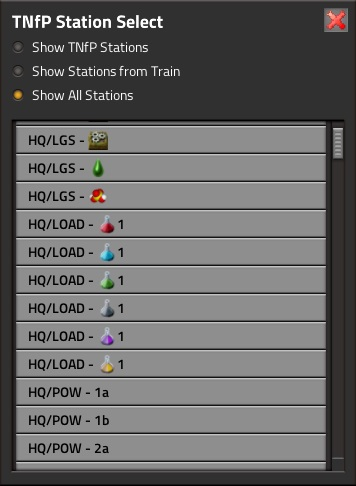
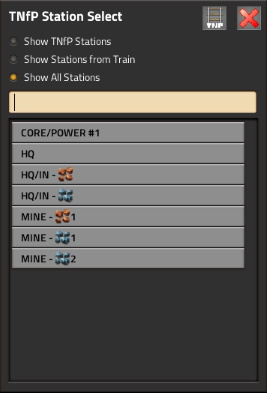
- update readme and documentation images

diff --git a/README.md b/README.md
@@ -2,94 +2,67 @@
 ## Train Network for Players (Factorio Mod)
 
 ### About
-Provides QoL functionality to improve using trains for player transport.
+QoL and advanced functionality for players using trains for transport, including improved destination selection dialog and automated train calling.
 
-### Key Features
-* (Optionally) Build and designate a TNfP network via a single combinator signal.
-* Dispatch TNfP trains to any train stop nearby.
-* Provides a TNfP Rail Tool (selection tool) which can create new temporary train stops from the map view and dispatch the current train the players is on there, or dispatch a TNfP train to the player to pick them up.
-* Station selection dialog when you board a train to take you onward.
-* This mod can be safely added and removed to a new or existing playthrough.
+There are two core concepts for this mod:
 
-### Misc Features
-* Configurable input hotkey (ALT-P default) or shortcut to dispatch trains.
-* Configurable input hotkey (SHIFT-ALT-P default) or shortcut for TNfP Rail Tool.
-* Controllable behaviour and timeouts for dispatching and arrivals.
-* Controllable levels of notifications.
+* When onboard a train, provide the ability to go to any train stop (or even just a rail segment) easily and without manually modifying schedules.
+* Allow one (or more) trains to be designated for player use, which can then be automatically dispatched to wherever the player is.  In effect, player trains become more like taxis.
 
-### Important Notes
-**This mod is currently beta.**  This mod should be mostly stable, though there is the possibility of it causing a crash.  Bug reports via [github.com](https://github.com/leehuk/factorio-tnfp/) are preferred or via the forum.  Please include the crash log and version information about both factorio and the mod.
-
-Multiplayer mode should work without any major issues, though has not been tested.
-
-### QoL Mode vs TNfP Mode
-This mod is designed to work both as a pure Quality of Life mod or in TNfP mode with more advanced dispatch functionality.
-
-For players who prefer pocket trains or borrowing trains from the network this mod provides access to QoL enhancements such as a quick station selection dialog and the ability to dispatch the current train to a rail segment from the map view via a new temporary station.
-
-In TNfP mode the player can mark one or more train stops as TNfP stations and then automatically dispatch trains from those stations to any train stop near them, or to a rail segment near them via the TNfP Rail Tool.  Once they board, this can automatically trigger the station selection dialog.
-
-### Mod Compatibility
-TNfP should be compatible with all mods relating to trains, providing they don't change train schedules or add custom types of train stops.
-
-When used with mods which add custom types of train stops, TNfP will work as follows:
-
-* LTN (Logistic Train Network): TNfP will dispatch to any stop except depots, which are ignored due to conflicts with scheduling trains.  (Thanks to Optera for assistance).
-* TSM (Train Supply Manager): TNfP will dispatch to 'Requester' stops, but will completely ignore 'Supplier' stops due to conflicts with scheduling trains.
-* Default: TNfP uses a configuration option controlling whether stops are considered safe to dispatch to (and thus ignored) or not.
-
-### Shortcut Bar and Input Hotkeys
-TNfP provides two additional shortcuts, both of which have input hotkeys:
-
-![TNfP Combinator](https://leehuk.github.io/factorio-tnfp/docs/images/tnfp-screenshot-shortcutbar.jpg)
-
-Request TNfP Train Shortcut (ALT-P).
-
-* When onboard a train, in either QoL Mode or TNfP mode this shows the station selection screen.
-* In TNfP Mode dispatches a TNfP train to the nearest valid train stop to the player, or cancels the current request if active.
-
-Provide TNfP Rail Tool (SHIFT-ALT-P).
-
-* Places a TNfP Rail Tool into the players hand.
-
-### Station Selection Dialog
-The station selection dialog provides a quick way of moving between stations:
+### Station Select Dialog
+The station select dialog provides a quick way of moving between stations and can be opened when onboard any train via either the input hotkey (ALT-P default) or toolbar shortcut:
 
 ![TNfP Station Select](https://leehuk.github.io/factorio-tnfp/docs/images/tnfp-screenshot-stationselect.jpg)
+&nbsp;
+![TNfP Station Select Search](https://leehuk.github.io/factorio-tnfp/docs/images/tnfp-screenshot-stationselect-search.jpg)
 
-When a station is chosen the train dispatches itself there and then waits for the player to exit the train.  Once the player exits the train it resumes its previous schedule, or the player can stay on the train and use 'Request TNfP Train' again to move to another location.
+* Quickly filter between stations in the trains schedules, TNfP designated stations or all stations.
+* Filter the list of stations further via the search bar.
+* Selecting a station will temporarily add it to the trains schedule and dispatch the train there, where it will wait for the player to exit before resuming its previous schedule.
+* The railtool button will provide a railtool and open the map, allowing the train to be dispatched to any valid rail segment.
+
+### TNfP Network
+If one or more trains are assigned into a TNfP network they can be automatically dispatched to the players location using the two shortcuts:
+
+![TNfP Shortcut Bar](https://leehuk.github.io/factorio-tnfp/docs/images/tnfp-screenshot-shortcutbar.jpg)
+
+* Request TNfP Train (default ALT-P) will dispatch a train to the nearest valid train stop.  If a request is active, selecting it again will cancel the request.
+* Provide TNfP Rail Tool (default SHIFT-ALT-P) will provide a railtool under the cursor, which can be used to select a rail segment to create a temporary stop.
+
+### TNfP Network Creation
+Trains are available for players if they have a train stop marked for TNfP use anywhere in their schedule, which is done via a single combinator signal.
+
+To assign trains into a TNfP network:
+1. Research trains, train stops and the circuit network.
+1. Have a train stop thats only intended for player use.
+1. Have a train thats only intended for player use, with the player train stop anywhere in its schedule.
+1. Place a Constant Combinator near your personal train stop.
+1. Set the combinator to output the new 'TNfP Station' virtual signal (with any value) -- found under 'Signals'.
+1. Connect the combinator to the train stop, with either red or green wire.
+
+![TNfP Combinator](https://leehuk.github.io/factorio-tnfp/docs/images/tnfp-screenshot-combinator.jpg)
+
+When dispatching trains TNfP will find the nearest train which has anywhere in its schedule a train stop receiving the 'TNfP Station' signal.
 
 ### TNfP Rail Tool
-The TNfP Rail Tool provides an improved way of creating temporary train stops.  Once one or more valid rails are selected a new temporary train stop will be created at that location:
+The railtool provides a way of creating temporary train stops and is used by selecting/dragging over an area containing rail segments, from either the standard player view or map view:
 
 ![TNfP Rail Tool Selection](https://leehuk.github.io/factorio-tnfp/docs/images/tnfp-screenshot-railtool-selection.jpg)
 &nbsp;
 ![TNfP Rail Tool Stop](https://leehuk.github.io/factorio-tnfp/docs/images/tnfp-screenshot-railtool-station.jpg)
 
-The rail tool works from both the standard player view and the map view.
+* When onboard a train a new temporary stop will be created at that location, temporarily added to the trains schedule and dispatched there.
+* When not onboard a train, a new temporary stop will be created and a player train will be dispatched there from the TNfP network.
+* To remove a rail tool from your inventory, drop it on the ground near the player (default 'z') and it will be automatically destroyed.
 
-* When onboard a train, in either QoL Mode or TNfP mode this sends the train to the new temporary stop and waits for the player to exit the train, before resuming its previous schedule.
-* In TNfP Mode dispatches a TNfP train to that temporary stop to pickup the player.
+### Important Notes
+This mod should be mostly stable for both single player and multiplayer.  Bug reports, feature requests or any comments are preferred via [github.com](https://github.com/leehuk/factorio-tnfp/) or via the forum.  Please include the crash log and version information about both factorio and the mod in bug reports.
 
-When using the rail tool from on board a train the trains wait condition will be the player exiting the train, at which point it will resume its original schedule.
+TNfP should be compatible with all mods relating to trains, providing they don't change train schedules or add custom types of train stops.  When used with mods which add custom types of train stops, TNfP will work as follows:
 
-To remove a rail tool from your inventory, drop it on the ground near the player (default 'z') and it will be automatically destroyed.
-
-### TNfP Network
-Creating a TNfP network allows you to dispatch TNfP trains to any valid train stop nearby or via the rail tool to a new temporary station.
-
-To enable TNfP Mode:
-1. Ensure you've researched trains and train stops.
-1. Ensure you have a train stop thats only intended for player use, with a train assigned to stop there.
-1. Craft a Constant Combinator and place it near your personal train stop.
-1. Set the combinator to output the new 'TNfP Station' virtual signal, found under 'Signals'.
-1. Connect the combinator to the train stop, with either red or green wire.
-
-![TNfP Combinator](https://leehuk.github.io/factorio-tnfp/docs/images/tnfp-screenshot-combinator.jpg)
-
-Once you connect the combinator the train stop becomes a TNfP Station.  Any train which has that train stop anywhere in its schedule then becomes a TNfP train and available for dispatching to the player.
-
-This allows the player to use the existing train network for personal use, without the requirement to add personal stations at every location or outpost, or fill a trains schedule with all possible locations.  Equally when players have an extensive web of personal stations, the various station selection dialog views allow moving around this network easier.
+* LTN (Logistic Train Network): TNfP will dispatch to any stop except depots, which are ignored due to conflicts with scheduling trains.  (Thanks to Optera for assistance).
+* TSM (Train Supply Manager): TNfP will dispatch to 'Requester' stops, but will completely ignore 'Supplier' stops due to conflicts with scheduling trains.
+* Default: TNfP uses a configuration option controlling whether stops are considered safe to dispatch to (and thus ignored) or not.
 
 ### Technical Information
 
@@ -98,6 +71,7 @@ General technical information, for the curious.
 #### Dispatching Logic
 
 When dispatching trains, TNfP will prioritise as follows:
+
 1. A TNfP train the player is currently in.
 1. A TNfP train stop with an unallocated train already waiting.
 1. A TNfP train stop.
